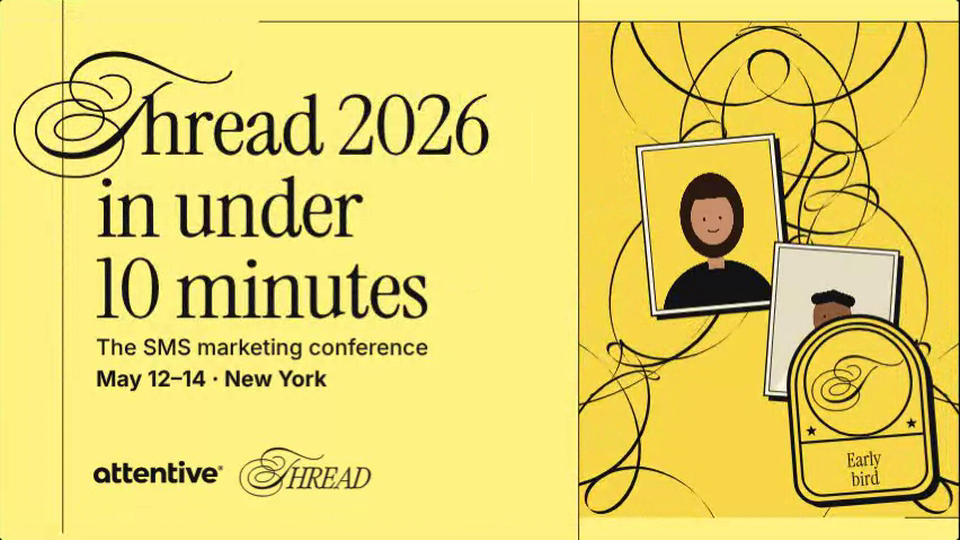
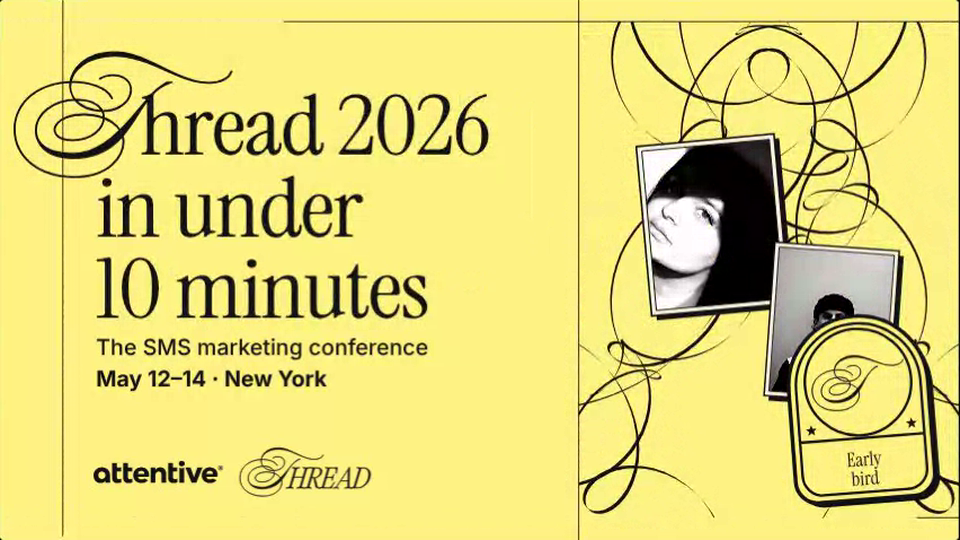
Conference Post Generator: badges on the right, B&W portraits, single yellow (#256)
* Add Conference Post Generator: Thread 2026 social posts with loops, outlined photos and badges

Claude-Session: https://claude.ai/code/session_01AHeBdzDs1sAKkVKYb3xsdt

* Conference Post Generator: drop loop grid, badges on the right (3-5), Unsplash B&W portraits, single yellow

Claude-Session: https://claude.ai/code/session_01AHeBdzDs1sAKkVKYb3xsdt

---------

diff --git a/conference-post-generator/index.html b/conference-post-generator/index.html
@@ -9,7 +9,7 @@
 <style>
 :root{
   --bg:#0e0e0e; --panel:#171717; --line:#2a2a2a; --text:#f3f2ea; --muted:#9a998d;
-  --yellow:#fff383; --gold:#f9d84a; --ink:#141414;
+  --yellow:#fff383; --ink:#141414;
   --font:"Inter","Helvetica Neue",Helvetica,Arial,sans-serif;
   --serif:"Instrument Serif",Georgia,serif;
 }
@@ -95,7 +95,6 @@ input[type=text]:focus,textarea:focus,select:focus{outline:2px solid var(--yello
         <button class="chip" data-v="speaker">Speaker</button>
         <button class="chip" data-v="badges">Badges</button>
         <button class="chip" data-v="pattern">Pattern</button>
-        <button class="chip" data-v="grid">Loop grid</button>
       </div>
       <h2>Format</h2>
       <div class="row" id="fmt">
@@ -110,9 +109,9 @@ input[type=text]:focus,textarea:focus,select:focus{outline:2px solid var(--yello
 
     <section id="textsec">
       <h2>Text</h2>
-      <label class="f" data-for="headline grid"><span>Headline, one line per row (wrap a line in *stars* for italic)</span><textarea id="headline" rows="3"></textarea></label>
-      <label class="f" data-for="headline grid pattern badges"><span>Sub line</span><input type="text" id="sub"></label>
-      <label class="f" data-for="headline grid pattern badges speaker"><span>Date and place</span><input type="text" id="date"></label>
+      <label class="f" data-for="headline"><span>Headline, one line per row (wrap a line in *stars* for italic)</span><textarea id="headline" rows="3"></textarea></label>
+      <label class="f" data-for="headline pattern badges"><span>Sub line</span><input type="text" id="sub"></label>
+      <label class="f" data-for="headline pattern badges speaker"><span>Date and place</span><input type="text" id="date"></label>
       <label class="f" data-for="speaker"><span>Tag</span><input type="text" id="chip"></label>
       <label class="f" data-for="speaker"><span>Speaker name</span><input type="text" id="speaker"></label>
       <label class="f" data-for="speaker"><span>Role</span><input type="text" id="role"></label>
@@ -130,20 +129,20 @@ input[type=text]:focus,textarea:focus,select:focus{outline:2px solid var(--yello
         <button class="chip" data-v="shield">Shield</button>
       </div>
       <label class="f"><span>Badge label, two lines max</span><textarea id="badgeText" rows="2"></textarea></label>
-      <label class="chk" data-for="headline speaker grid"><input type="checkbox" id="showBadge"> Show the badge</label>
-      <label class="chk" data-for="badges"><input type="checkbox" id="badgeSet"> Show all five shapes</label>
+      <label class="chk" data-for="headline speaker"><input type="checkbox" id="showBadge"> Show the badge</label>
+      <div class="rng" data-for="badges"><span>Badges shown</span><input type="range" id="badgeCount" min="3" max="5" step="1"><output id="badgeCountO"></output></div>
     </section>
 
     <section id="photosec">
       <h2>Photos</h2>
       <div class="photos" id="photos"></div>
-      <p class="hint">Click or drop an image on a slot. Photos get the outline and the cream mat.</p>
+      <p class="hint">Black and white portraits from Unsplash. Click or drop your own image on a slot to replace one.</p>
       <div class="row" id="pfilter">
-        <button class="chip" data-v="color">Colour</button>
-        <button class="chip" data-v="bw">Black and white</button>
+        <button class="chip" data-v="color">Original</button>
+        <button class="chip" data-v="bw">High-contrast B&amp;W</button>
         <button class="chip" data-v="duo">Yellow duotone</button>
       </div>
-      <div class="rng" data-for="headline grid"><span>Photos shown</span><input type="range" id="photoCount" min="0" max="3" step="1"><output id="photoCountO"></output></div>
+      <div class="rng" data-for="headline"><span>Photos shown</span><input type="range" id="photoCount" min="0" max="3" step="1"><output id="photoCountO"></output></div>
     </section>
 
     <section>
@@ -181,9 +180,8 @@ const ease = (u) => 0.5 - 0.5 * Math.cos(Math.PI * cl(u, 0, 1));
 const mulberry32 = (a) => () => { a |= 0; a = (a + 0x6D2B79F5) | 0; let t = Math.imul(a ^ (a >>> 15), 1 | a); t = (t + Math.imul(t ^ (t >>> 7), 61 | t)) ^ t; return ((t ^ (t >>> 14)) >>> 0) / 4294967296; };
 
 const THEMES = {
-  yellow: { name: 'Yellow', bg: '#fff383', fg: '#141414', accent: '#f9d84a', paper: '#faf4de' },
+  yellow: { name: 'Yellow', bg: '#fff383', fg: '#141414', accent: '#fff383', paper: '#faf4de' },
   ink:    { name: 'Ink',    bg: '#141414', fg: '#fff383', accent: '#fff383', paper: '#faf4de' },
-  gold:   { name: 'Gold',   bg: '#f9d84a', fg: '#141414', accent: '#fff383', paper: '#faf4de' },
   cream:  { name: 'Cream',  bg: '#faf4de', fg: '#141414', accent: '#fff383', paper: '#ffffff' },
 };
 const FMT = {
@@ -198,8 +196,8 @@ const SHAPE_RATIO = { arch: 0.76, circle: 1, scallop: 1, hexagon: 1.1, shield: 0
 const S = {
   tpl: 'headline', fmt: 'landscape', theme: 'yellow', seed: 7,
   headline: 'Thread 2026\nin under\n10 minutes', sub: 'The SMS marketing conference', date: 'May 12–14 · New York',
-  chip: 'Keynote', speaker: 'Jordan Lee', role: 'VP of Growth, Brand Co.', talk: 'What texting taught us about talking to customers',
-  swashT: true, badgeShape: 'arch', badgeText: SHAPE_DEFAULTS.arch, showBadge: true, badgeSet: true,
+  chip: 'Keynote', speaker: 'Maya Chen', role: 'VP of Growth, Brand Co.', talk: 'What texting taught us about talking to customers',
+  swashT: true, badgeShape: 'arch', badgeText: SHAPE_DEFAULTS.arch, showBadge: true, badgeCount: 4,
   photoFilter: 'color', photoCount: 2, density: 7, weight: 5, lines: true, anim: true,
 };
 
@@ -314,7 +312,7 @@ const photoVer = [0, 0, 0];
 const photoCache = {};                           // processed canvases
 function placeholder(i) {
   const c = document.createElement('canvas'); c.width = 600; c.height = 750; const x = c.getContext('2d');
-  const bgs = ['#f9d84a', '#e7dfc4', '#fff383'], skins = ['#c98e6a', '#8a5a3c', '#e8b996'], hairs = ['#2a1a12', '#141414', '#7b4a2a'], shirts = ['#141414', '#faf4de', '#141414'];
+  const bgs = ['#fff383', '#e7dfc4', '#fff383'], skins = ['#c98e6a', '#8a5a3c', '#e8b996'], hairs = ['#2a1a12', '#141414', '#7b4a2a'], shirts = ['#141414', '#faf4de', '#141414'];
   x.fillStyle = bgs[i]; x.fillRect(0, 0, 600, 750);
   x.fillStyle = shirts[i]; x.beginPath(); x.ellipse(300, 790, 270, 250, 0, Math.PI, TAU); x.fill();
   x.fillStyle = skins[i]; x.fillRect(262, 470, 76, 110);
@@ -336,17 +334,17 @@ function getPhoto(i) {
   const sw = src.naturalWidth || src.width, sh = src.naturalHeight || src.height, k = Math.min(1, 900 / Math.max(sw, sh));
   const c = document.createElement('canvas'); c.width = Math.round(sw * k); c.height = Math.round(sh * k);
   const x = c.getContext('2d', { willReadFrequently: true }); x.drawImage(src, 0, 0, c.width, c.height);
-  if (S.photoFilter !== 'color') {
+  if (S.photoFilter !== 'color') try {
     const d = x.getImageData(0, 0, c.width, c.height), px = d.data;
     const lo = [20, 20, 20], hi = [255, 243, 131];
     for (let p = 0; p < px.length; p += 4) {
       let l = (0.299 * px[p] + 0.587 * px[p + 1] + 0.114 * px[p + 2]) / 255;
-      l = cl((l - 0.5) * 1.15 + 0.52, 0, 1);
+      l = cl((l - 0.5) * 1.5 + 0.5, 0, 1);
       if (S.photoFilter === 'bw') { px[p] = px[p + 1] = px[p + 2] = l * 255; }
       else { px[p] = lo[0] + (hi[0] - lo[0]) * l; px[p + 1] = lo[1] + (hi[1] - lo[1]) * l; px[p + 2] = lo[2] + (hi[2] - lo[2]) * l; }
     }
     x.putImageData(d, 0, 0);
-  }
+  } catch (e) { /* tainted canvas on file://: show the photo as is */ }
   return (photoCache[key] = c);
 }
 /* an outlined print: cream mat, dark outline, optional hard shadow */
@@ -532,18 +530,22 @@ function tSpeaker(ctx, c) {
 }
 
 function tBadges(ctx, c) {
-  const { W, H, fu, th, t } = c, lw = 7 * fu, m = Math.min(W, H), stripH = c.land ? 86 * fu : 100 * fu;
-  ctx.fillStyle = th.fg; ctx.fillRect(0, stripH, W, lw); ctx.fillRect(0, H - stripH - lw, W, lw);
-  drawThreadLogo(ctx, 0.0985 * W, stripH / 2 - 918 * 0.05 * fu / 2 + 2, 0.05 * fu, th.fg);
-  if (S.date) sansText(ctx, S.date, W - 0.0985 * W, stripH / 2 + 9 * fu, 30 * fu, th.fg, { wt: 700, align: 'right', ls: 1 * fu });
-  const aw = 190 * fu; drawAttentive(ctx, 0.0985 * W, H - stripH / 2 - (aw * ATT_H / ATT_W) / 2 - 2, aw, th.fg);
-  if (S.sub) sansText(ctx, S.sub, W - 0.0985 * W, H - stripH / 2 + 9 * fu, 30 * fu, th.fg, { wt: 500, align: 'right' });
-  const order = ['arch', 'circle', 'scallop', 'hexagon', 'shield'], midY = H / 2;
-  if (!S.badgeSet) { const bh = Math.min(H - 2 * stripH - 80 * fu, W * 0.8 / SHAPE_RATIO[S.badgeShape]) * 0.92; drawBadge(ctx, th, S.badgeShape, W / 2, midY + 6 * sway(t, 0), bh, 0.015 * sway(t, 0.5), S.badgeText, 0); return; }
-  const others = order.filter((s) => s !== S.badgeShape), pos = [[0.2, 0.32, -0.12], [0.82, 0.31, 0.1], [0.18, 0.69, 0.08], [0.83, 0.69, -0.09]];
-  const sm = m * (c.land ? 0.36 : 0.3), big = c.land ? (H - 2 * stripH) * 0.74 : m * 0.56;
-  others.forEach((s, i) => drawBadge(ctx, th, s, W * pos[i][0], H * pos[i][1] + 7 * sway(t, i * 1.3), sm * (0.9 + (i % 2) * 0.12), pos[i][2] + 0.015 * sway(t, i), SHAPE_DEFAULTS[s], 0));
-  drawBadge(ctx, th, S.badgeShape, W / 2, midY + 6 * sway(t, 0), big, 0.02 * sway(t, 0.5), S.badgeText, 0);
+  const { W, H, fu, th, t, land } = c, pr = panelRect(c, 'bottom');
+  frameLines(ctx, c, land ? pr.x : null);
+  const box = land ? { x: 0, y: 100 * fu, w: pr.x - 60 * fu, h: H - 350 * fu } : { x: 0, y: 110 * fu, w: W - 0.06 * W, h: pr.y - 150 * fu };
+  const hb = headlineBlock(ctx, c, box, { maxFs: 172 * fu * (land ? 1 : 2) });
+  subLines(ctx, c, hb.mx, hb.bottom + 40 * fu);
+  footer(ctx, c);
+  // the badge cluster: the chosen shape leads, the others follow in a fixed order
+  const n = cl(S.badgeCount, 3, 5), base = land ? Math.min(pr.h, pr.w * 1.05) : Math.min(pr.h * 1.3, pr.w * 0.9);
+  const L = { 3: [[0.5, 0.36, 0.64, 0.02], [0.2, 0.78, 0.38, -0.1], [0.8, 0.74, 0.4, 0.09]],
+    4: [[0.46, 0.34, 0.58, 0.02], [0.82, 0.2, 0.34, 0.1], [0.18, 0.76, 0.38, -0.1], [0.72, 0.78, 0.4, 0.07]],
+    5: [[0.45, 0.33, 0.5, 0.02], [0.84, 0.2, 0.3, 0.1], [0.16, 0.74, 0.34, -0.1], [0.5, 0.82, 0.3, 0.05], [0.86, 0.62, 0.3, -0.08]] }[n];
+  const order = ['arch', 'circle', 'scallop', 'hexagon', 'shield'].filter((x) => x !== S.badgeShape);
+  L.forEach((p, i) => {
+    const shape = i ? order[i - 1] : S.badgeShape, bh = base * p[2];
+    drawBadge(ctx, th, shape, pr.x + pr.w * p[0], pr.y + pr.h * p[1] + 6 * fu * sway(t, i * 1.3), bh, p[3] + 0.015 * sway(t, i), i ? SHAPE_DEFAULTS[shape] : S.badgeText, 10 * fu);
+  });
 }
 
 function tPattern(ctx, c) {
@@ -560,49 +562,7 @@ function tPattern(ctx, c) {
   lines.forEach((l, i) => sansText(ctx, l, W / 2, py + pad + logoH + 46 * fu + i * 60 * fu, 42 * fu, th.fg, { wt: i ? 700 : 500, align: 'center' }));
 }
 
-function tGrid(ctx, c) {
-  const { W, H, fu, th, t, land } = c, rnd = mulberry32(S.seed * 31 + 5);
-  const cols = land ? 6 : (W < 1200 ? 3 : 4), rows = Math.max(2, Math.round(H / (W / cols))), tw = W / cols, tth = H / rows;
-  const card = land ? { x: 0.055 * W, y: 0.12 * H, w: 0.5 * W, h: 0.76 * H }
-    : { x: 0.07 * W, y: H * (S.fmt === 'story' ? 0.4 : S.fmt === 'portrait' ? 0.36 : 0.3), w: 0.86 * W, h: H * (S.fmt === 'story' ? 0.52 : S.fmt === 'portrait' ? 0.56 : 0.62) };
-  const cand = [], tiles = [];
-  for (let r = 0; r < rows; r++) for (let q = 0; q < cols; q++) {
-    const cx = (q + 0.5) * tw, cy = (r + 0.5) * tth, hidden = cx > card.x - tw * 0.4 && cx < card.x + card.w + tw * 0.45 && cy > card.y - tth * 0.4 && cy < card.y + card.h + tth * 0.4;
-    const tl = { q, r, cx, cy, seed: Math.floor(rnd() * 1e6), kind: rnd(), fill: Math.floor(rnd() * 4), z: rnd(), jx: (rnd() - 0.5) * 0.12, jy: (rnd() - 0.5) * 0.12, flip: rnd() > 0.5, rot: Math.floor(rnd() * 4) };
-    tiles.push(tl); if (!hidden) cand.push(tl);
-  }
-  const fills = [th.bg, th.accent, th.paper, th.fg], on = (f) => (f === DARK || f === th.fg && th.fg === DARK ? YEL : (f === th.bg && th.bg === DARK ? YEL : DARK));
-  const photoT = cand.slice().sort((a, b) => a.z - b.z).slice(0, S.photoCount); photoT.forEach((p) => { p.kind = -1; });
-  const ov = 0.14;
-  tiles.slice().sort((a, b) => a.z - b.z).forEach((tl) => {
-    const iw = tw * (1 + ov), ih = tth * (1 + ov), x = tl.cx - iw / 2 + tl.jx * tw, y = tl.cy - ih / 2 + tl.jy * tth;
-    const f = tl.kind < 0 ? th.accent : fills[(tl.q + tl.r * 2 + tl.fill + (tl.kind >= 0.8 ? 1 : 0)) % 4];
-    ctx.save(); ctx.beginPath(); ctx.rect(x, y, iw, ih); ctx.clip();
-    ctx.fillStyle = f; ctx.fillRect(x, y, iw, ih);
-    if (tl.kind >= 0 && tl.kind < 0.5) loops(ctx, x, y, iw, ih, { seed: tl.seed, n: Math.max(3, Math.round(S.density * 0.7)), color: on(f), t, mirror: tl.flip, wt: S.weight / 5 });
-    else if (tl.kind >= 0.5 && tl.kind < 0.8) { // quarter-circle motif from the colour-grid reference
-      const rr = mulberry32(tl.seed), pal = fills.filter((p) => p !== f), cw = iw / 2, chh = ih / 2;
-      for (let a = 0; a < 2; a++) for (let b = 0; b < 2; b++) {
-        ctx.fillStyle = pal[Math.floor(rr() * pal.length)]; ctx.beginPath();
-        ctx.ellipse(x + a * cw + (rr() > 0.5 ? 0 : cw), y + b * chh + (rr() > 0.5 ? 0 : chh), cw, chh, 0, 0, TAU); ctx.fill();
-      }
-    } else if (tl.kind >= 0.8) { ctx.save(); ctx.translate(tl.cx, tl.cy); ctx.rotate(tl.rot * Math.PI / 2); if (tl.flip) ctx.scale(-1, 1); const k = Math.min(iw, ih) * 0.9 / 1587; drawSwash(ctx, -1587 * k / 2, -918 * k / 2, k, on(f), 0); ctx.restore(); }
-    ctx.restore();
-    ctx.strokeStyle = th.fg; ctx.lineWidth = Math.max(2, 3 * fu); ctx.strokeRect(x, y, iw, ih);
-  });
-  photoT.forEach((p, i) => { const pw = Math.min(tth * 0.69, tw * 0.8); photoFrame(ctx, i, p.cx, p.cy + 4 * sway(t, i), pw, pw * 1.25, (i % 2 ? 0.07 : -0.07) + 0.012 * sway(t, i * 1.3), th, 8 * fu); });
-  // headline card
-  ctx.save(); ctx.fillStyle = DARK; ctx.fillRect(card.x + 16 * fu, card.y + 16 * fu, card.w, card.h);
-  ctx.fillStyle = th.paper; ctx.fillRect(card.x, card.y, card.w, card.h); ctx.strokeStyle = DARK; ctx.lineWidth = 6 * fu; ctx.strokeRect(card.x, card.y, card.w, card.h); ctx.restore();
-  const cc = { ...c, th: { ...th, fg: DARK } }, pad = card.w * 0.075, footH = 130 * fu;
-  const hb = headlineBlock(ctx, cc, { x: card.x, y: card.y + 20 * fu, w: card.w - pad, h: card.h - footH - 30 * fu }, { maxFs: 172 * fu * (land ? 0.85 : 1.5), mx: card.x + pad });
-  subLines(ctx, cc, hb.mx, hb.bottom + 36 * fu);
-  const fy = card.y + card.h - footH / 2, aw = 200 * fu; drawAttentive(ctx, card.x + pad, fy - (aw * ATT_H / ATT_W) / 2, aw, DARK);
-  drawThreadLogo(ctx, card.x + pad + aw + 40 * fu, fy - 918 * 0.075 * fu / 2, 0.075 * fu, DARK);
-  if (S.showBadge) drawBadge(ctx, th, S.badgeShape, card.x + card.w + (land ? 0.005 * W : -0.02 * W), card.y + (land ? 0.07 * card.h : 0), land ? H * 0.34 : tth * 0.95, 0.1 + 0.015 * sway(t, 0.9), S.badgeText, 8 * fu);
-}
-
-const TPL = { headline: tHeadline, speaker: tSpeaker, badges: tBadges, pattern: tPattern, grid: tGrid };
+const TPL = { headline: tHeadline, speaker: tSpeaker, badges: tBadges, pattern: tPattern };
 function render(ctx, W, H, t, still) {
   const c = ctxBase(W, H, t, still);
   ctx.save(); ctx.fillStyle = c.th.bg; ctx.fillRect(0, 0, W, H);
@@ -627,7 +587,7 @@ function frame(now) {
   }
   requestAnimationFrame(frame);
 }
-const TEXTS = ['headline', 'sub', 'date', 'chip', 'speaker', 'role', 'talk', 'badgeText'], CHECKS = ['swashT', 'showBadge', 'badgeSet', 'lines', 'anim'], RANGES = ['density', 'weight', 'photoCount'];
+const TEXTS = ['headline', 'sub', 'date', 'chip', 'speaker', 'role', 'talk', 'badgeText'], CHECKS = ['swashT', 'showBadge', 'lines', 'anim'], RANGES = ['density', 'weight', 'photoCount', 'badgeCount'];
 function syncUI() {
   [['tpl', S.tpl], ['fmt', S.fmt], ['shape', S.badgeShape], ['pfilter', S.photoFilter]].forEach(([id, v]) => document.querySelectorAll('#' + id + ' .chip').forEach((b) => { b.classList.toggle('on', b.dataset.v === v); b.setAttribute('aria-pressed', b.dataset.v === v); }));
   document.querySelectorAll('#theme .sw').forEach((b) => b.classList.toggle('on', b.dataset.v === S.theme));
@@ -660,13 +620,16 @@ for (let i = 0; i < 3; i++) {
   const d = document.createElement('div'); d.className = 'ph'; d.tabIndex = 0; d.setAttribute('role', 'button'); d.setAttribute('aria-label', 'Photo ' + (i + 1));
   d.innerHTML = '<canvas width="120" height="150"></canvas><span>Photo ' + (i + 1) + '</span><input type="file" accept="image/*" hidden>'; phWrap.appendChild(d);
   const inp = d.querySelector('input');
-  const load = (f) => { if (!f || !f.type.startsWith('image/')) return; const im = new Image(); im.onload = () => { photoSrc[i] = im; photoVer[i]++; thumb(i); dirty = true; }; im.src = URL.createObjectURL(f); };
+  const load = (f) => { if (!f || !f.type.startsWith('image/')) return; const im = new Image(); im.onload = () => { photoSrc[i] = im; photoVer[i]++; if (S.photoFilter === 'color') { S.photoFilter = 'bw'; syncUI(); } thumb(i); dirty = true; }; im.src = URL.createObjectURL(f); };
   d.addEventListener('click', () => inp.click()); d.addEventListener('keydown', (e) => { if (e.key === 'Enter' || e.key === ' ') { e.preventDefault(); inp.click(); } });
   inp.addEventListener('change', () => load(inp.files[0]));
   d.addEventListener('dragover', (e) => { e.preventDefault(); d.classList.add('drag'); }); d.addEventListener('dragleave', () => d.classList.remove('drag'));
   d.addEventListener('drop', (e) => { e.preventDefault(); d.classList.remove('drag'); load(e.dataTransfer.files[0]); });
   thumb(i);
 }
+
+/* the three default portraits (Unsplash, black and white, high contrast; see photos/CREDITS.md) */
+['photos/p1.jpg', 'photos/p2.jpg', 'photos/p3.jpg'].forEach((u, i) => { const im = new Image(); im.onload = () => { if (!photoSrc[i]) { photoSrc[i] = im; photoVer[i]++; thumb(i); dirty = true; } }; im.src = u; });
 
 /* export */
 const status = (m) => ($('#status').textContent = m);
@@ -690,7 +653,7 @@ $('#rec').addEventListener('click', () => {
   step();
 });
 
-/* hash: #tpl=grid&fmt=square&theme=ink&seed=3&t=2.5&anim=0 (handy for stills) */
+/* hash: #tpl=badges&fmt=square&theme=ink&seed=3&t=2.5&anim=0 (handy for stills) */
 new URLSearchParams(location.hash.slice(1)).forEach((v, k) => {
   if (k === 'tpl' && TPL[v]) S.tpl = v; else if (k === 'fmt' && FMT[v]) S.fmt = v; else if (k === 'theme' && THEMES[v]) S.theme = v;
   else if (k === 'seed') S.seed = +v || 1; else if (k === 't') frozenT = +v; else if (k === 'anim') S.anim = v !== '0';

diff --git a/tools/record-clips.js b/tools/record-clips.js
@@ -26,13 +26,12 @@ const domClick = (p, sel) => p.evaluate((s) => document.querySelector(s).click()
    Apps that move on their own just wait; the others are driven the way a visitor would use them. */
 const APPS = {
   'conference-post-generator': { vp: [1280, 769], setup: cropOf('#cv'), ready: 1200, q: 40, run: async (p) => {
-    // the headline post plays on its own, then step through the speaker, badges, pattern and loop grid templates
+    // the headline post plays on its own, then step through the speaker, badges and pattern templates
     const t0 = Date.now(), tpl = (n) => domClick(p, '#tpl button:nth-child(' + n + ')');
     await at(t0, 1300, () => tpl(2));
-    await at(t0, 2500, () => tpl(3));
-    await at(t0, 3700, () => tpl(4));
-    await at(t0, 4900, () => tpl(5));
-    await at(t0, 6000, () => tpl(1));
+    await at(t0, 2700, () => tpl(3));
+    await at(t0, 4000, () => tpl(4));
+    await at(t0, 5000, () => tpl(1));
   } },
   // red lattice on black, then the orange flow and the grey arches as the generator cycles on its own (lines draw in first, then morph)
   'arrow-line-generator': { vp: [1280, 769], crop: [0, 49, 1280, 720], hash: '?still', ready: 800, q: 48, run: async (p) => {

diff --git a/conference-post-generator/photos/CREDITS.md b/conference-post-generator/photos/CREDITS.md
@@ -1,0 +1,5 @@
+Portraits from Unsplash, free to use under the Unsplash License. Converted to high-contrast black and white.
+
+- p1.jpg: Eugenia Pan'kiv, https://unsplash.com/photos/black-and-white-portrait-of-a-woman-with-dramatic-lighting-l0uhKKvNaak
+- p2.jpg: Jacob Mitani, https://unsplash.com/photos/a-young-man-in-black-and-white-portrait-EDA6q96MunA
+- p3.jpg: Graham Smith, https://unsplash.com/photos/a-black-and-white-photo-of-an-older-man-WI0pVpdzsZk
